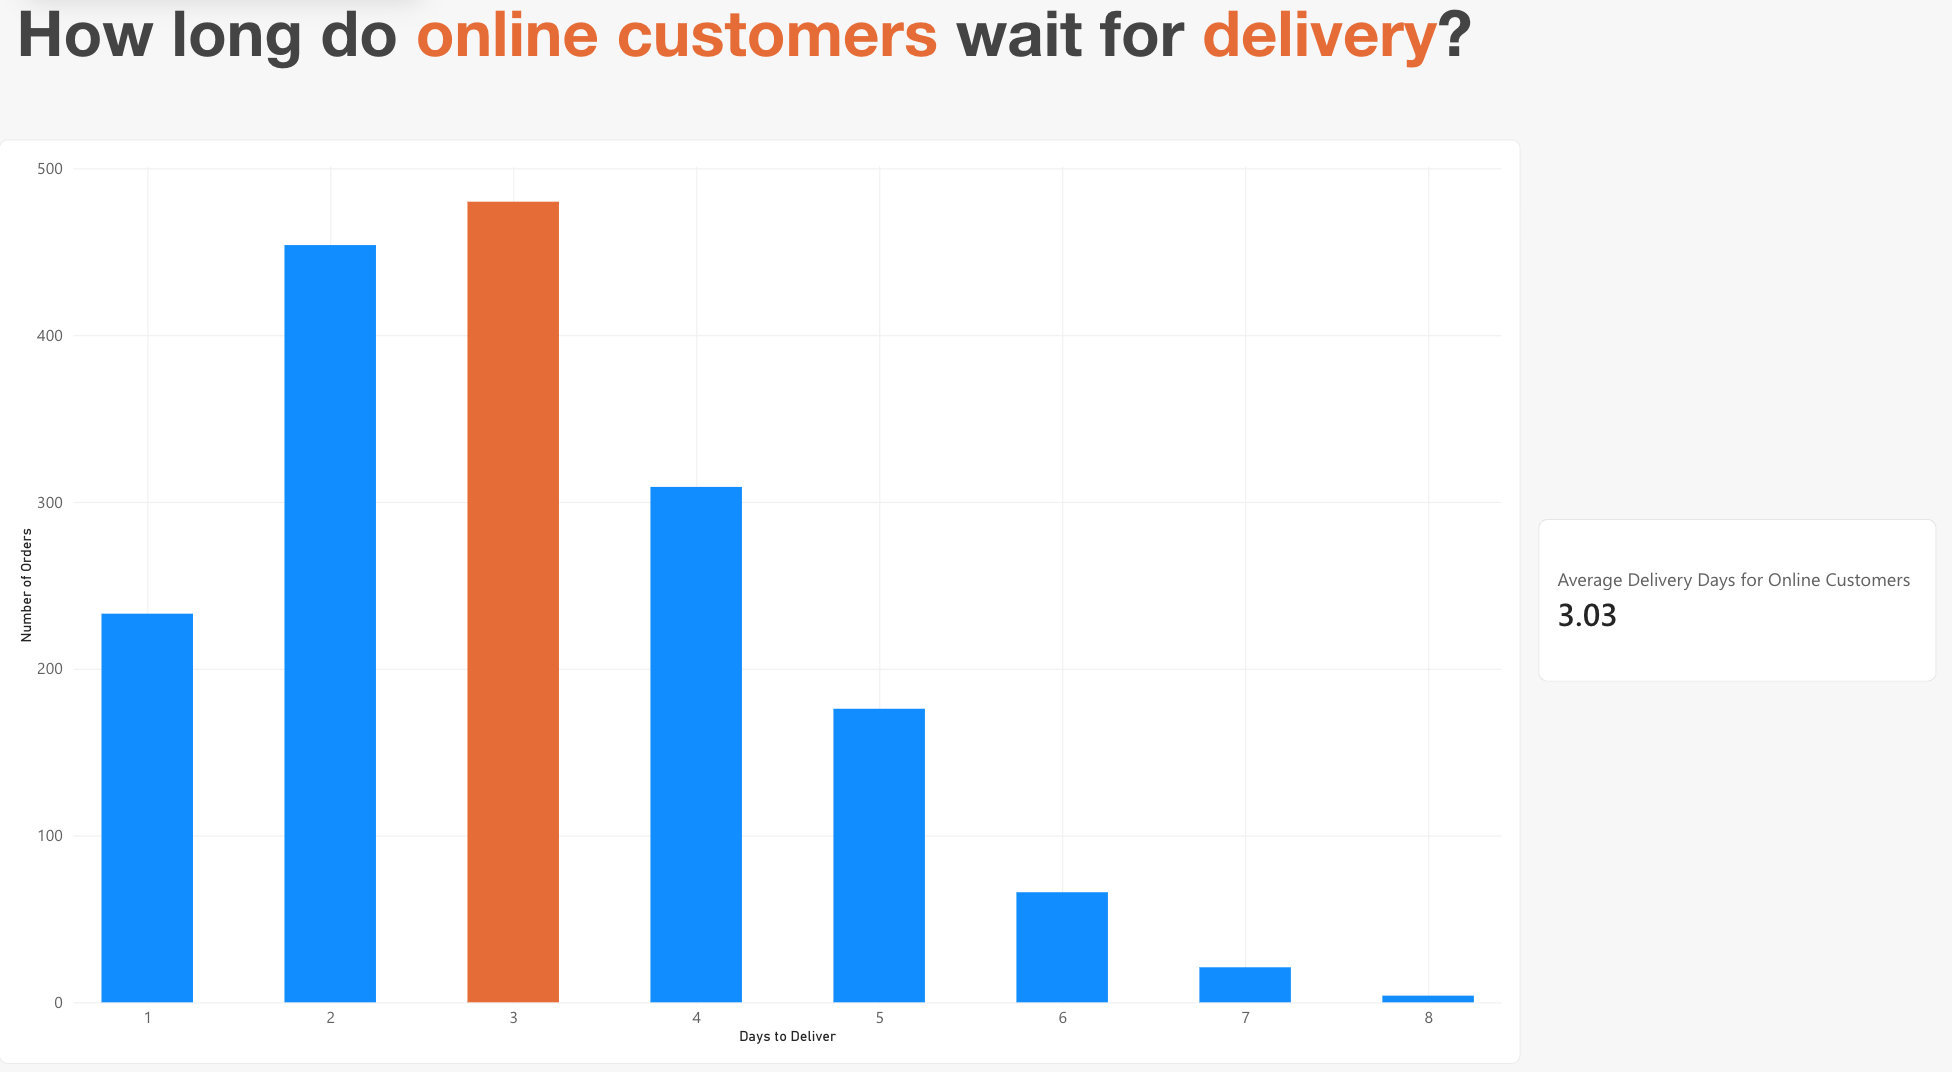
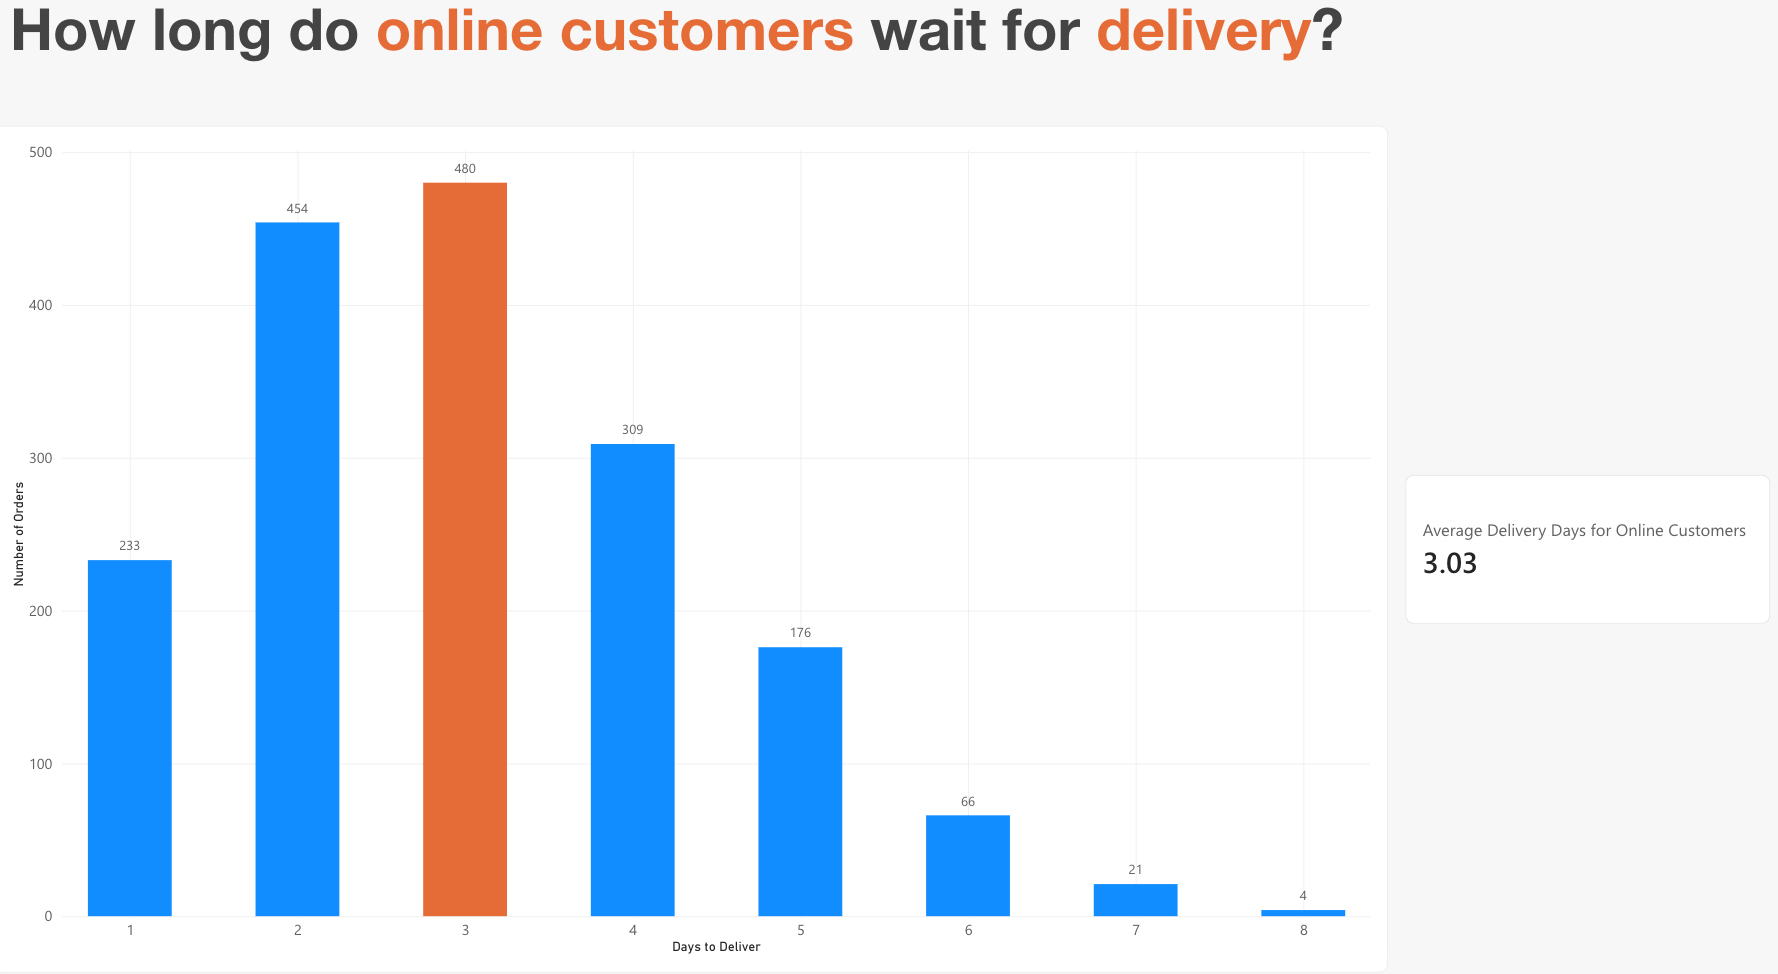
Add Power BI findings and labeled delivery screenshot

diff --git a/power-bi.html b/power-bi.html
@@ -107,7 +107,7 @@
             -->
           </div>
           <dl class="spec">
-            <div><dt>Finding</dt><dd class="pending">Write-up in progress</dd></div>
+            <div><dt>Finding</dt><dd>In Cell phones, the Contoso Touch Stylus Pen E150 Red ties a touch screen phone for the lead at 66 units each, and four of the top ten are accessories rather than phones. In Computers, the Adventure Works Desktop PC2.33 XD233 Silver leads at 87 units, the same product that tops revenue in question 03.</dd></div>
             <div><dt>Built with</dt><dd>Clustered column chart of Sum of Quantity by ProductName, limited to the top 10 with a visual-level Top N filter. A CategoryName slicer switches between categories, and the top sellers are highlighted in orange.</dd></div>
           </dl>
         </div>
@@ -126,7 +126,7 @@
             </div>
           </div>
           <dl class="spec">
-            <div><dt>Finding</dt><dd class="pending">Write-up in progress</dd></div>
+            <div><dt>Finding</dt><dd>The Adventure Works Desktop PC2.33 XD233 Silver leads at $99K, about $19K ahead of the next product. All five spots go to just two models in different colors, the XD233 desktop and the 52 inch LCD HDTV, so revenue leans heavily on a few high-ticket items.</dd></div>
             <div><dt>Built with</dt><dd>Clustered column chart of the Revenue measure (net price converted to US dollars) by ProductName, limited to the top 5 by Revenue with a Top N filter. The leader is highlighted in orange.</dd></div>
           </dl>
         </div>
@@ -145,7 +145,7 @@
             </div>
           </div>
           <dl class="spec">
-            <div><dt>Finding</dt><dd class="pending">Write-up in progress</dd></div>
+            <div><dt>Finding</dt><dd>Contoso Store Nebraska leads physical stores at $136K, but the top five sit within $36K of each other, so no single location carries the business. Three of the five are in the US, with one in Germany and one in Northern Ireland.</dd></div>
             <div><dt>Built with</dt><dd>Clustered column chart of the Revenue measure by store (Description), limited to the top 5 by Revenue, with a visual filter that excludes the Online store so physical locations compare fairly.</dd></div>
           </dl>
         </div>
@@ -164,7 +164,7 @@
             </div>
           </div>
           <dl class="spec">
-            <div><dt>Finding</dt><dd class="pending">Write-up in progress</dd></div>
+            <div><dt>Finding</dt><dd>Computers is the most profitable category at $1.57M, more than double the next category, Home Appliances, at $0.69M.</dd></div>
             <div><dt>Built with</dt><dd>Clustered column chart of the Profit measure by CategoryName, sorted from highest to lowest profit, with the top category highlighted in orange.</dd></div>
           </dl>
         </div>
@@ -186,7 +186,7 @@
             -->
           </div>
           <dl class="spec">
-            <div><dt>Finding</dt><dd class="pending">Write-up in progress</dd></div>
+            <div><dt>Finding</dt><dd>74 customers ordered more than once (71 twice, 3 three times), buying 1,027 units across 151 orders. Computers (273 units) and Cell phones (261) make up 52% of what they buy.</dd></div>
             <div><dt>Built with</dt><dd>A table of customers (CustomerKey, name, Order Count and Quantity) filtered to Order Count greater than 1, paired with a column chart of a Repeat Customer Quantity measure by CategoryName.</dd></div>
           </dl>
         </div>
@@ -199,13 +199,13 @@
           <div class="media-stack">
             <div class="shots">
               <figure class="shot">
-                <a href="powerbi/07-delivery.png?v=2" target="_blank" rel="noopener"><img src="powerbi/07-delivery.png?v=2" alt="Bar chart of online orders by days to deliver, from 1 to 8 days. Three days is the most common at 480 orders, highlighted in orange, with 454 at two days and 309 at four days, tailing off to 4 orders at eight days. A card shows average delivery of 3.03 days for online customers" loading="lazy"></a>
+                <a href="powerbi/07-delivery.png?v=3" target="_blank" rel="noopener"><img src="powerbi/07-delivery.png?v=3" alt="Bar chart of online orders by days to deliver, from 1 to 8 days. Three days is the most common at 480 orders, highlighted in orange, with 454 at two days and 309 at four days, tailing off to 4 orders at eight days. Each bar is labeled with its order count (233, 454, 480, 309, 176, 66, 21 and 4). A card shows average delivery of 3.03 days for online customers" loading="lazy"></a>
                 <figcaption>Online orders by days to deliver · filtered to the online store</figcaption>
               </figure>
             </div>
           </div>
           <dl class="spec">
-            <div><dt>Finding</dt><dd class="pending">Write-up in progress</dd></div>
+            <div><dt>Finding</dt><dd>Online orders take 3.03 days on average, and 67% of the 1,743 orders arrive within three days. The slow tail is small: 91 orders (5%) took six days or more, and none took longer than eight.</dd></div>
             <div><dt>Built with</dt><dd>Column chart of a Number of Orders measure by Days to Deliver, with a card showing the Average Delivery Days measure. The whole page is filtered to the Online store.</dd></div>
           </dl>
         </div>
@@ -224,7 +224,7 @@
             </div>
           </div>
           <dl class="spec">
-            <div><dt>Finding</dt><dd class="pending">Write-up in progress</dd></div>
+            <div><dt>Finding</dt><dd>Revenue fell 24%, from $3.18M in 2022 to $2.43M in 2023, while profit margin held at about 56% in both years, so the decline came from fewer sales rather than thinner margins. Sales also run on a clear cycle, peaking in February ($421K in 2022, $411K in 2023) and bottoming out in April ($70K and $53K).</dd></div>
             <div><dt>Built with</dt><dd>Line chart of the Revenue and Profit measures by OrderDate year and month, filtered to orders on or after June 1, 2021.</dd></div>
           </dl>
         </div>
@@ -243,7 +243,7 @@
             </div>
           </div>
           <dl class="spec">
-            <div><dt>Finding</dt><dd class="pending">Write-up in progress</dd></div>
+            <div><dt>Finding</dt><dd>Customers 65 and over spend the most at $2.23M, nearly double the next group (35 to 44 at $1.25M) and almost four times customers 24 and under ($0.59M). Their top categories are Cell phones (2,000 units) and Computers (1,766).</dd></div>
             <div><dt>Built with</dt><dd>Two column charts: Total Spent (USD) by age group, and Quantity Purchased by product category with a visual filter limiting it to customers aged 65 and over.</dd></div>
           </dl>
         </div>
@@ -262,7 +262,7 @@
             </div>
           </div>
           <dl class="spec">
-            <div><dt>Finding</dt><dd class="pending">Write-up in progress</dd></div>
+            <div><dt>Finding</dt><dd>Male customers spent $3.8M against $3.5M for female customers, a 52% to 48% split, so spending is close to even. Male spenders are concentrated in the United States (6.6K), more than four times Germany (1.5K), the next largest market.</dd></div>
             <div><dt>Built with</dt><dd>Two column charts: Total Spent (USD) by Gender, and Amount of Spenders by country with a visual filter limiting it to male customers.</dd></div>
           </dl>
         </div>
